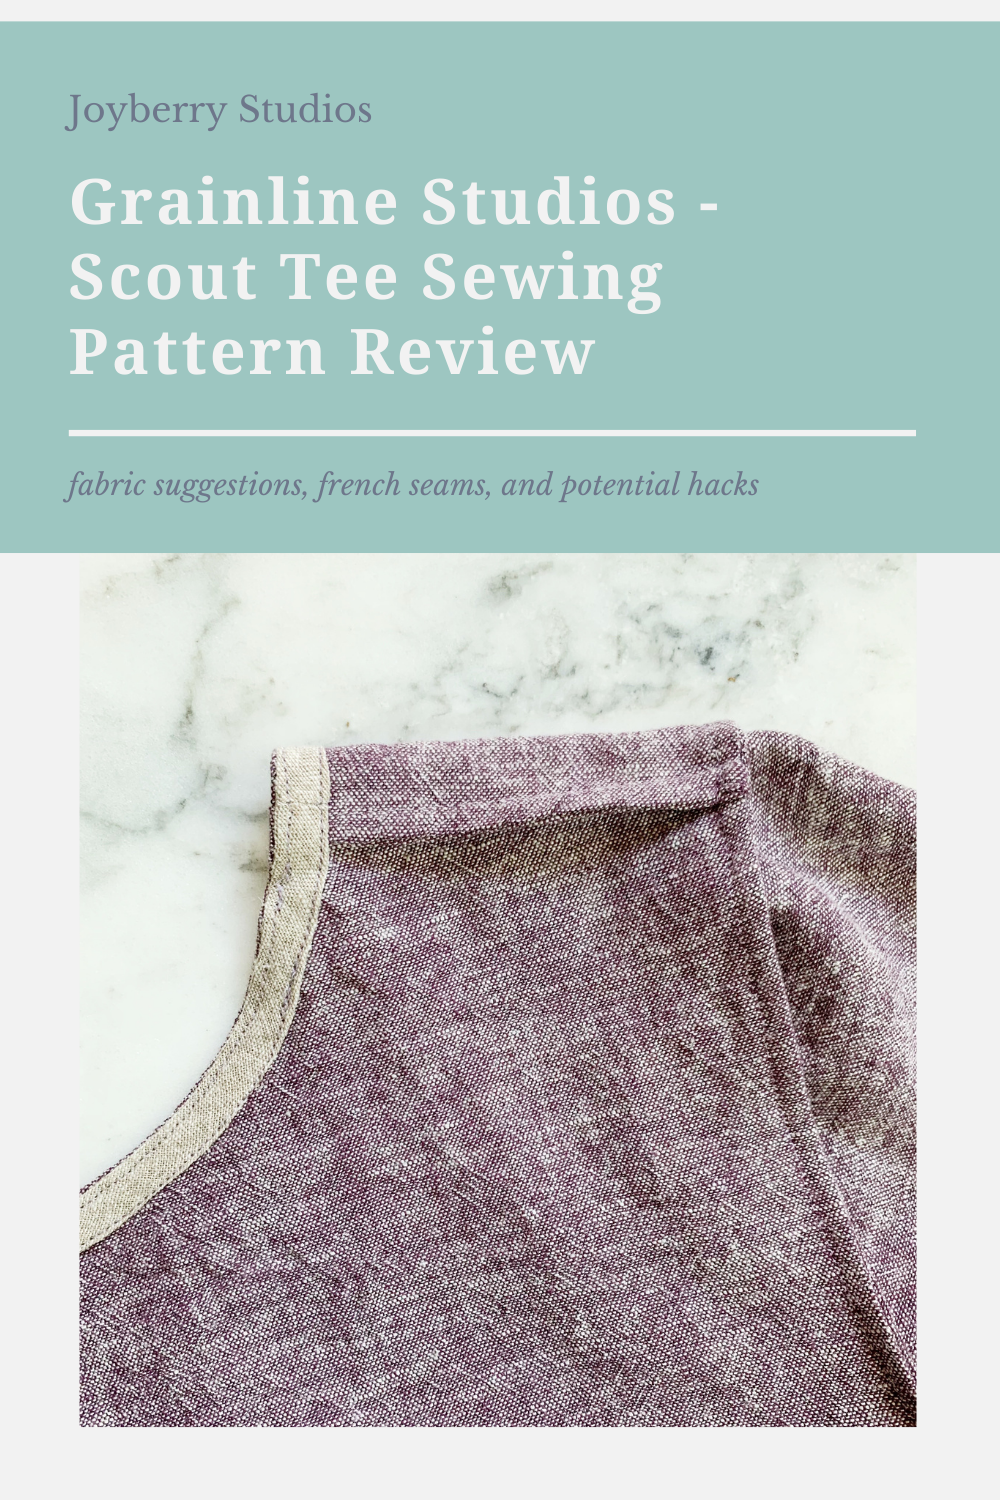
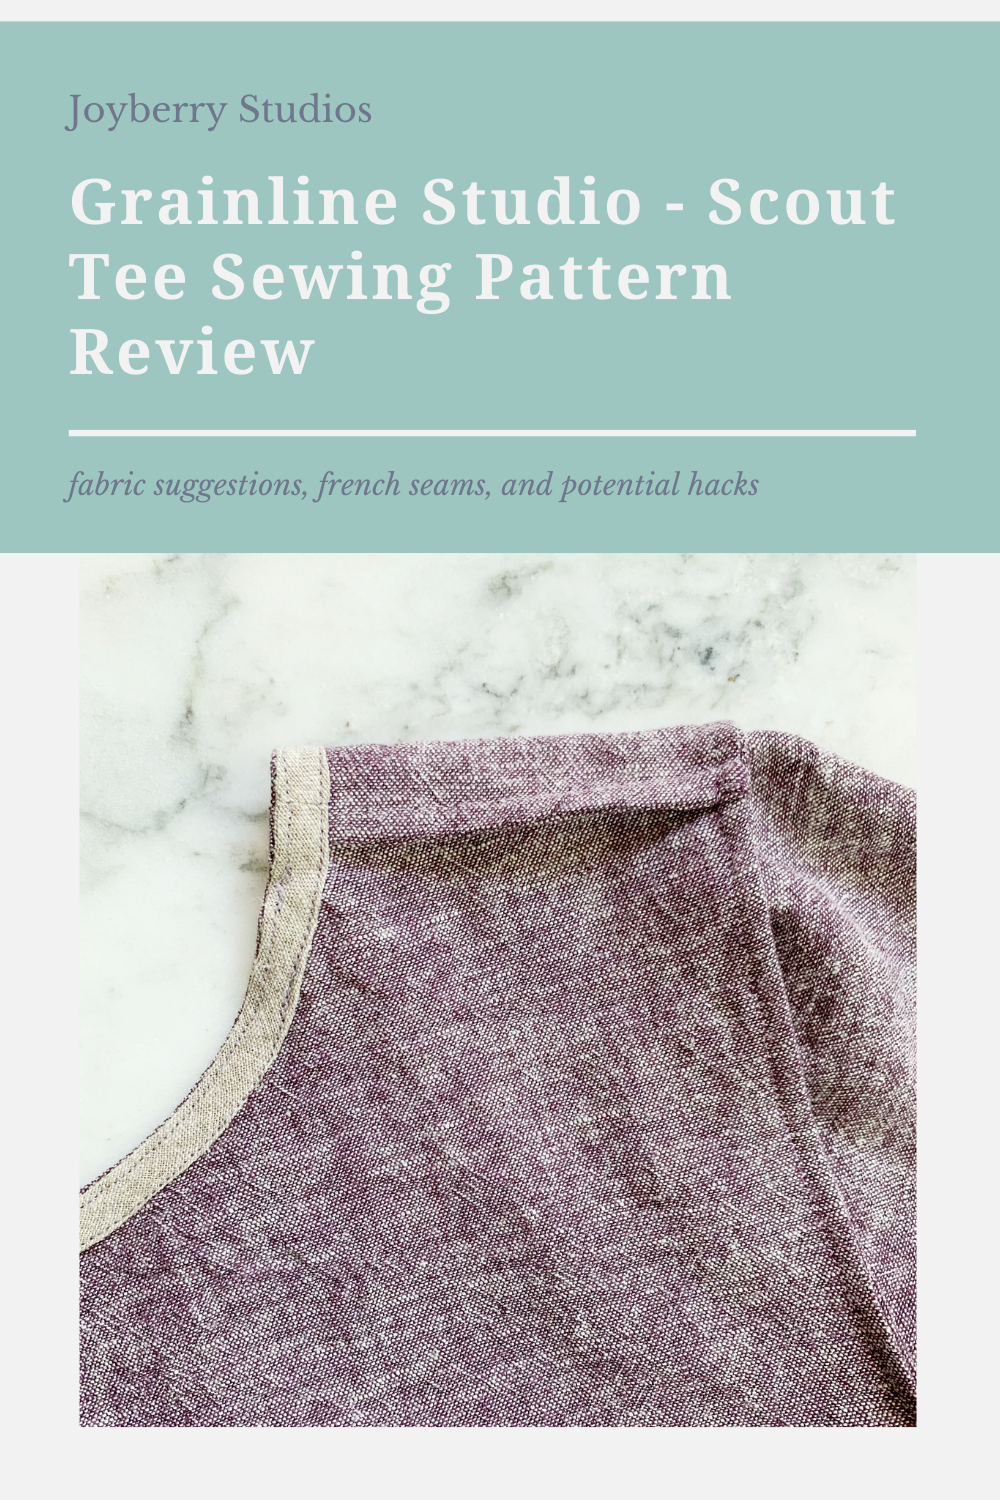
studio

Changed region(s): [[0.062, 0.1227, 0.899, 0.276]]

diff --git a/_posts/2021-05-10-scoutTee.md b/_posts/2021-05-10-scoutTee.md
@@ -1,6 +1,6 @@
 ---
 layout: blogpost
-title: "Grainline Studios Scout Tee Pattern Review - Fabric, French Seams, and Hacks"
+title: "Grainline Studio Scout Tee Pattern Review - Fabric, French Seams, and Hacks"
 image: /assets/images/blogs/May2021/scoutTee/pinterest4.png
 date: 2021-05-10
 tags: sewing garments
@@ -9,7 +9,7 @@ comments: true
 ---
 My mom loved my [Shirt No 1](https://joyberrystudios.com/2021/02/15/shirtNo1.html) that I sewed earlier this spring. She requested one for herself for her birthday.
 
-When we were fitting the muslin for the Shirt No 1 on her I could tell she didn’t really like the sleeves and how they fell on her arms and puckered in the armpits. I did some research and fell in love the with [Scout Tee from Grainline Studios](https://grainlinestudio.com/collections/summer-patterns/products/scout-tee?variant=22533587533906). It is a simple shirt made with woven fabrics. It has a separate slightly gathered sleeve. It can be easily hacked into a dress or tank top. It is a perfect pattern to keep in your stash!
+When we were fitting the muslin for the Shirt No 1 on her I could tell she didn’t really like the sleeves and how they fell on her arms and puckered in the armpits. I did some research and fell in love the with [Scout Tee from Grainline Studio](https://grainlinestudio.com/collections/summer-patterns/products/scout-tee?variant=22533587533906). It is a simple shirt made with woven fabrics. It has a separate slightly gathered sleeve. It can be easily hacked into a dress or tank top. It is a perfect pattern to keep in your stash!
 
 ## Fabric 
 
